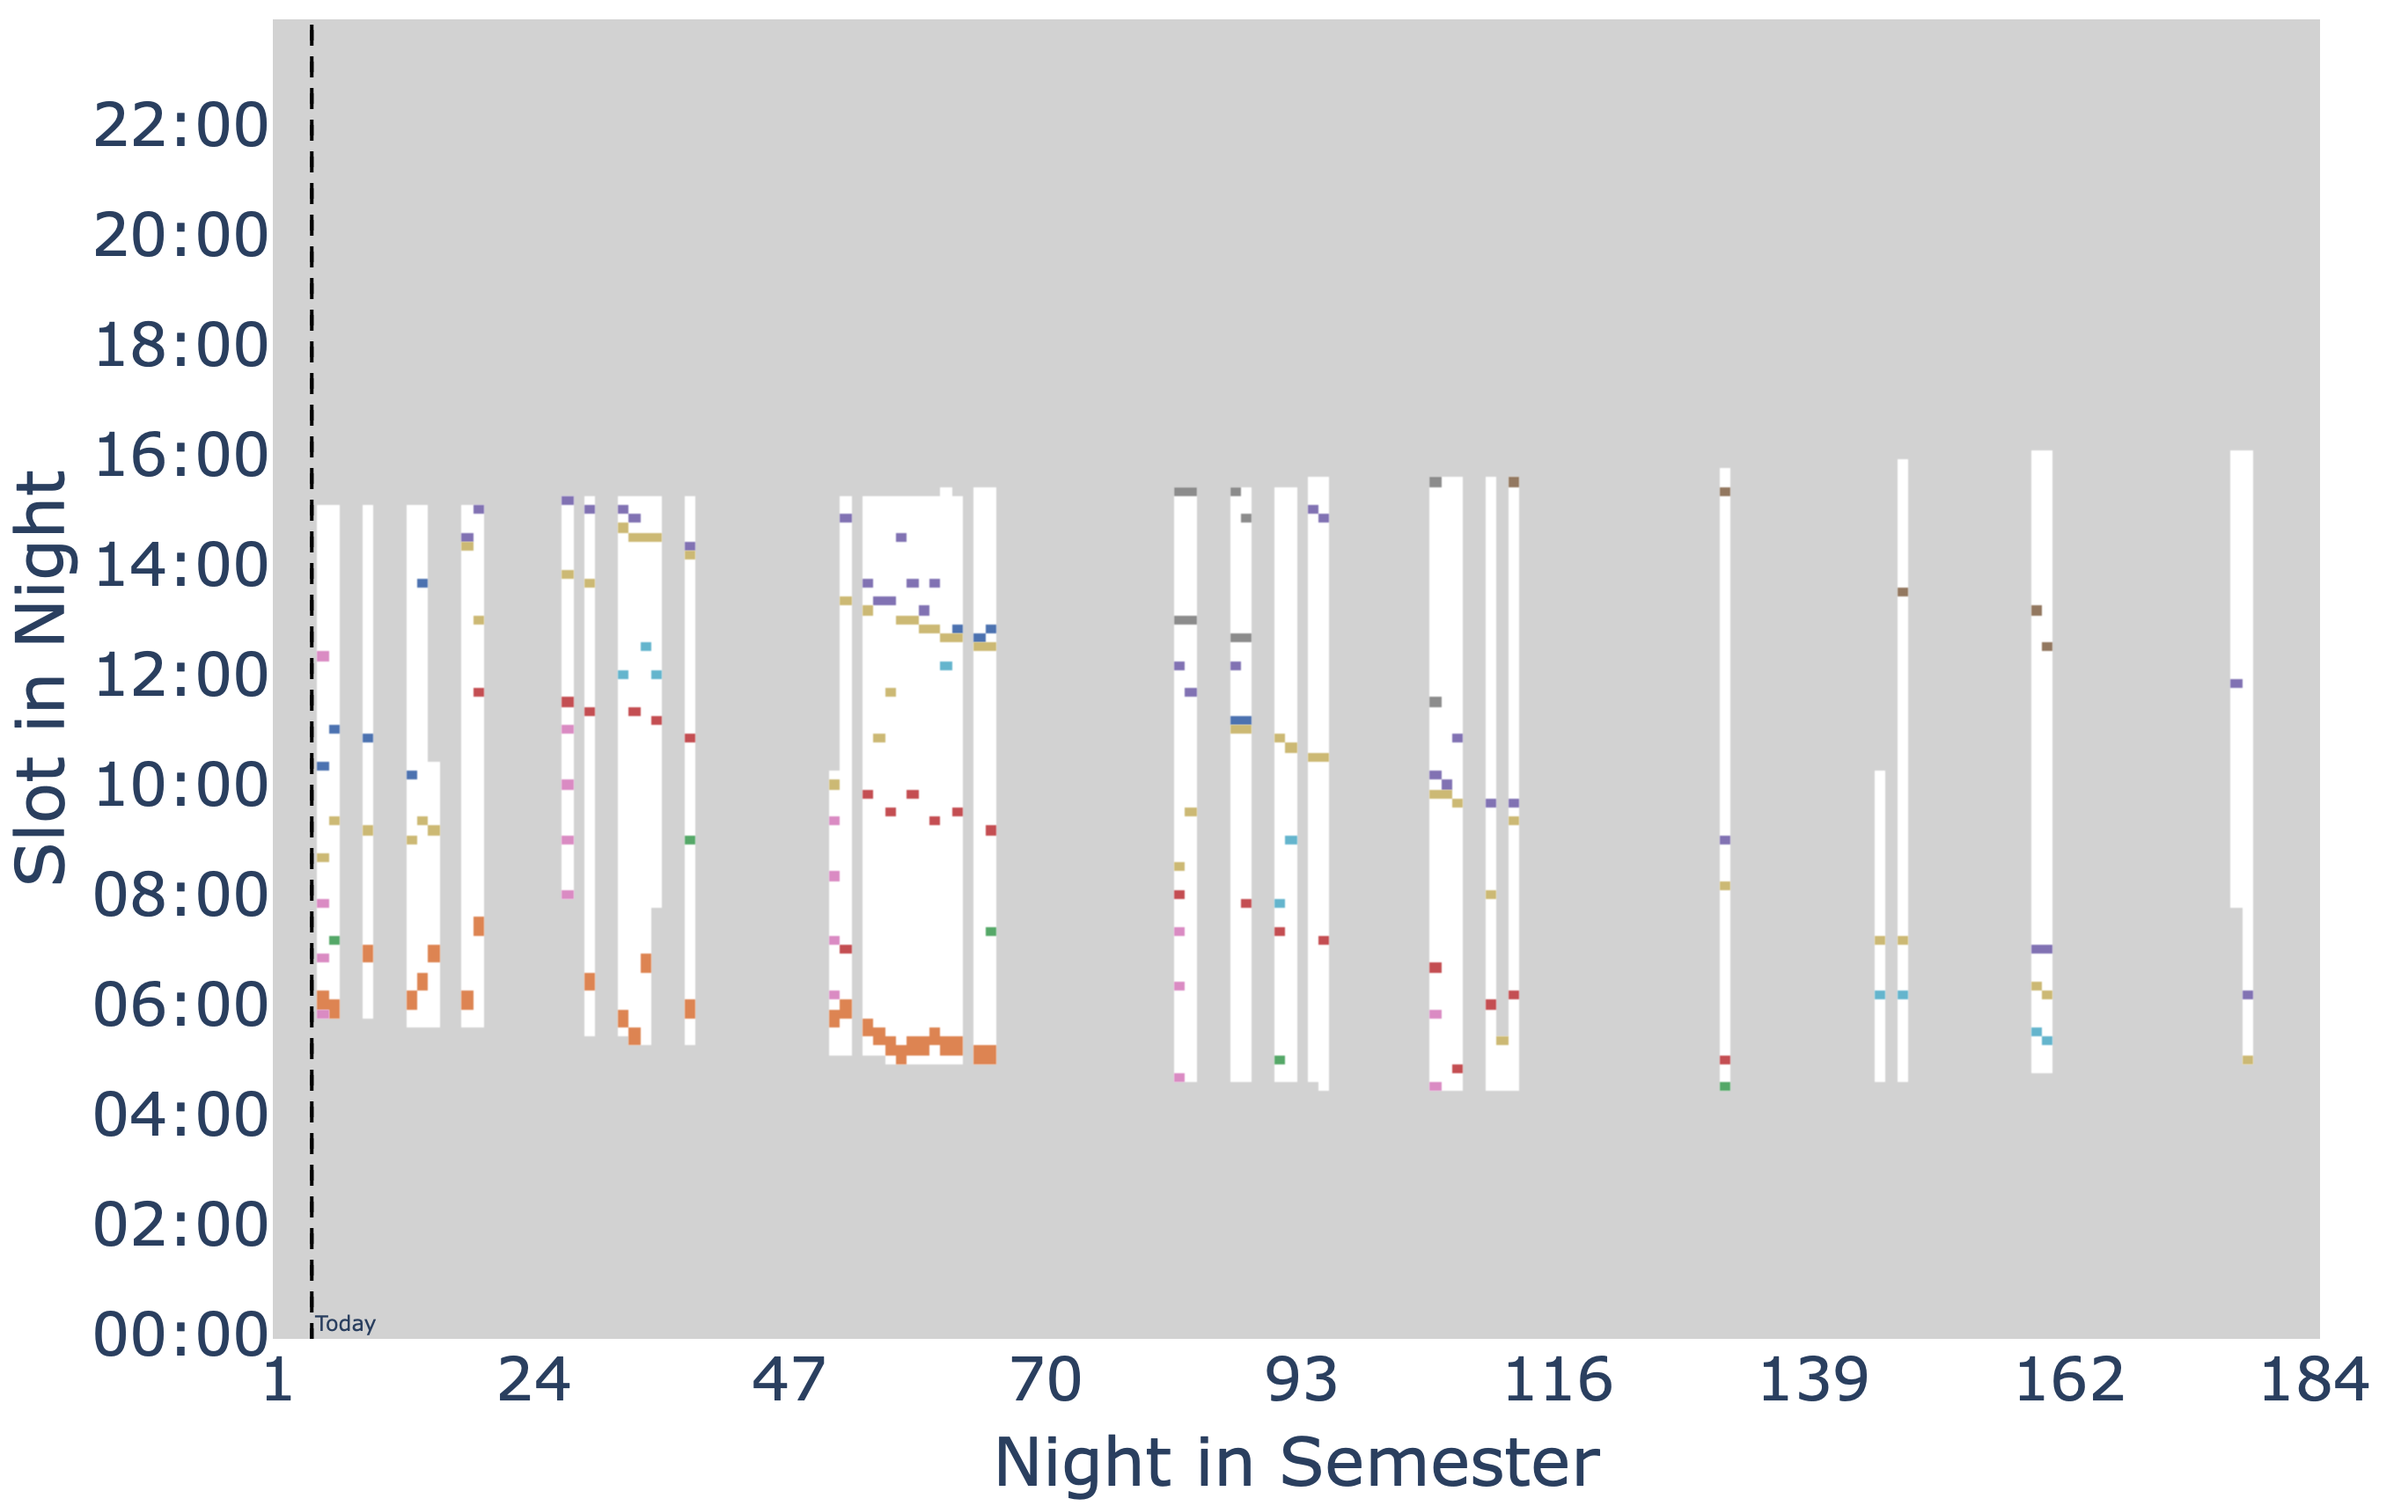
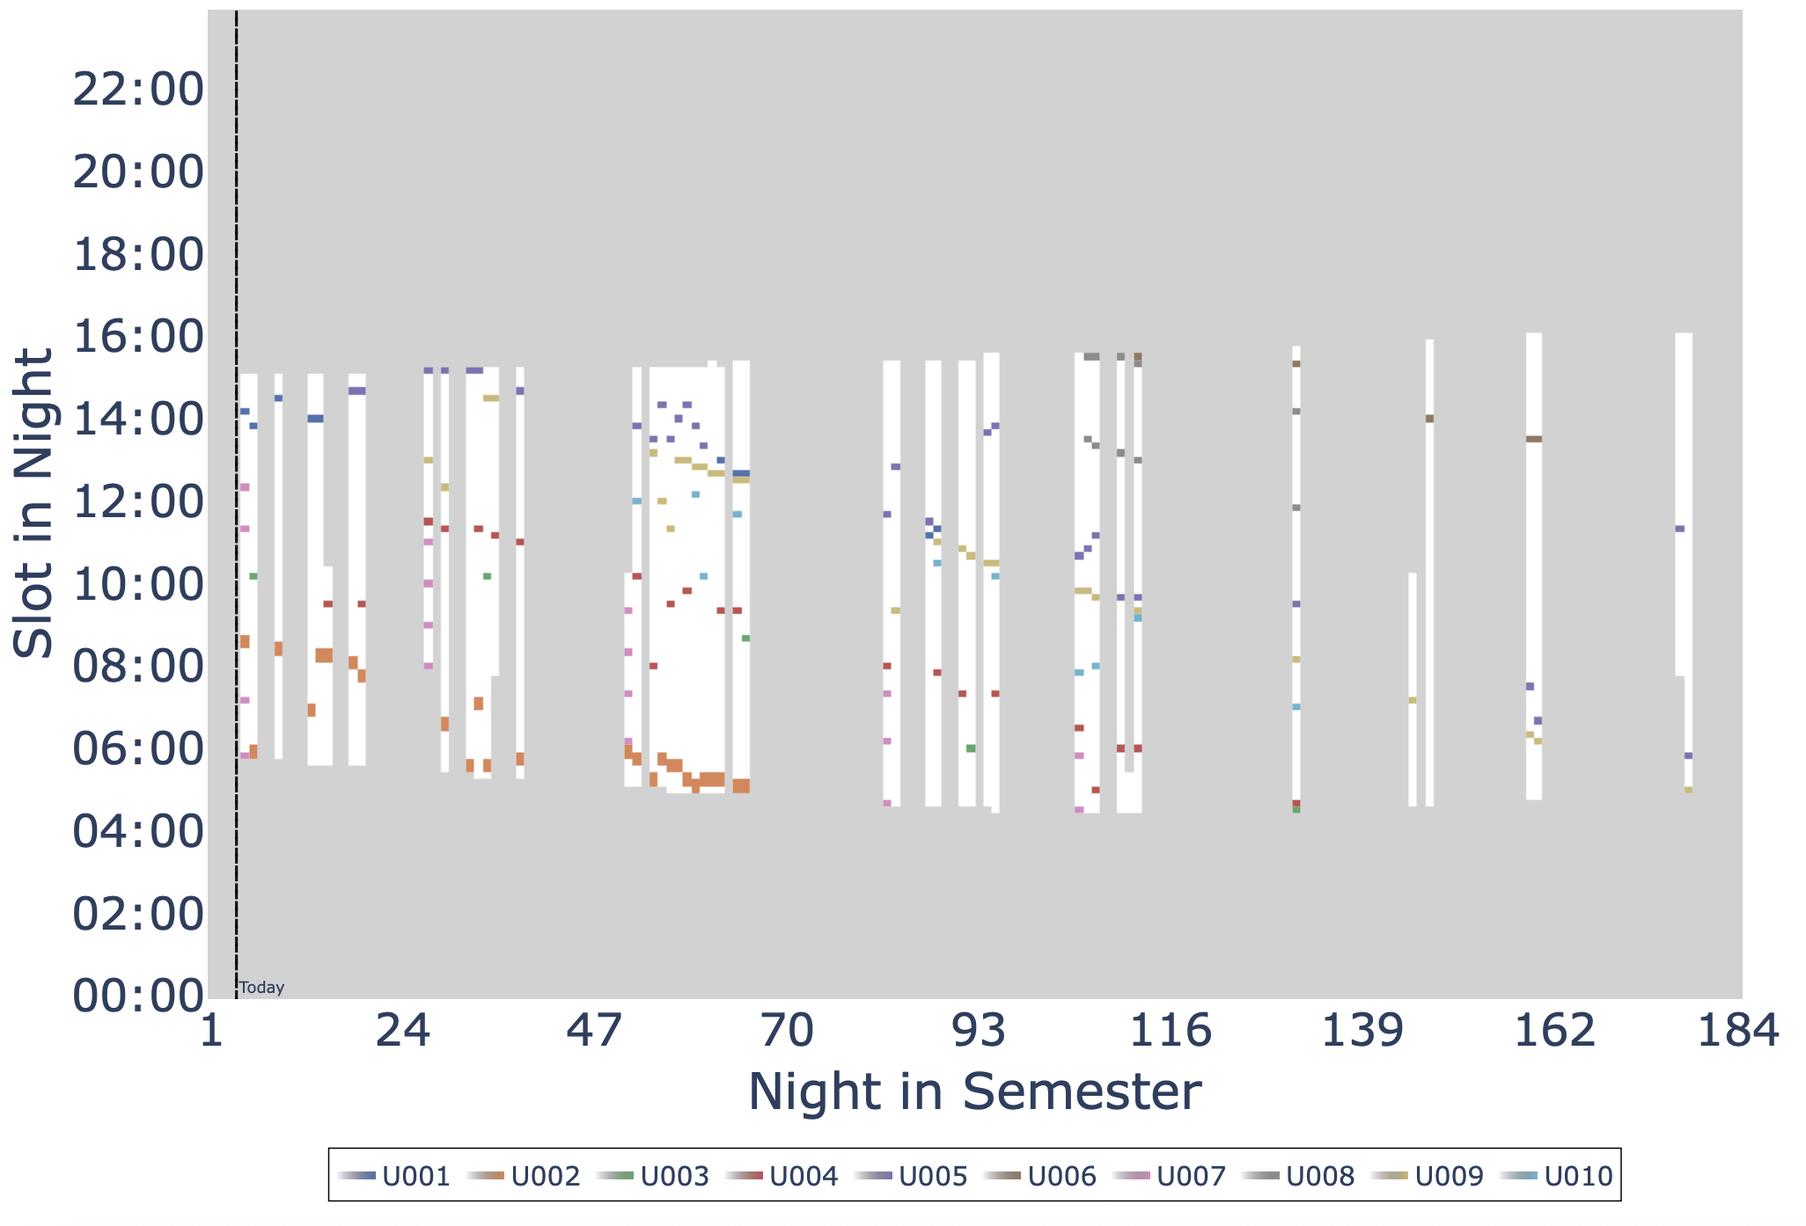
adding plots for docs getting started and modifying language. Changing hello world requests to be more realistic.

diff --git a/docs/getting_started.rst b/docs/getting_started.rst
@@ -384,6 +384,13 @@ Now we can launch the webapp to view the schedule. This will launch on a local s
     
         $ astroq webapp -up examples/hello_world/
 
+Scrolling down a bit, you should see the "Cumulative Observation Function (COF)" plot which describes the completion rate of each program as a function of time:
+
+    .. image:: plots/hello_cof.png
+        :width: 100%
+        :align: center
+        :alt: Webapp screenshot
+
 Scrolling down a bit, you should see the "birdseye" plot of the schedule look something like this:
 
     .. image:: plots/hello_birdseye.png
@@ -391,11 +398,64 @@ Scrolling down a bit, you should see the "birdseye" plot of the schedule look so
         :align: center
         :alt: Webapp screenshot
 
-        
-The Hello World Example is an easy model to solve. Try something a bit more complex by running our benchmark test:
+Notice that two program perform poorly, U001 and U006. This is entirely explainable and stems from the fact that the requests in these programs are infeasible. For example, let's investigate U006's target, WASP-107. First displaying all the slots that are available for observations this semester:
+
+    .. image:: plots/U006_birdseye_1.png
+        :width: 100%
+        :align: center
+        :alt: Webapp screenshot
+
+This shows there is lots of available time to schedule the target. So why isn't it getting scheduled more? Turning on some of the individual constraint maps reveals the problem. First we turn on the is_altaz, which blocks out the times that are not available for scheduling this target due to the natural seasonality of the star and the pointing limits of the telescope:
+
+    .. image:: plots/U006_birdseye_2.png
+        :width: 100%
+        :align: center
+        :alt: Webapp screenshot
+
+Immediately we see that the vast majority of our allocated time is not ammenable to observing this target. But what about those last two days, why isn't the target scheduled then? We can further turn on the is_moon, which blocks out the times that are not available for scheduling this target due to the moon's position in the sky and we see that this is the cause of conflict:
+
+    .. image:: plots/U006_birdseye_3.png
+        :width: 100%
+        :align: center
+        :alt: Webapp screenshot
+
+Now we can feel confident that AstroQ is scheduling this target as often as is feasible. The request itself is infeasible, thus the low completion rate. U001's HIP1532 target is amenable to observations all semester, but it has a custom map that severly restricts when it can be observed, hence a low completion rate. These tools allow us the really dive into any target and understand why it is or is not being scheduled.
+
+Looking at some additional plots, we track the on-sky cadence vs the requested cadence. We don't want to violate the PI's desired minimum cadence so all dots on this plot should be above the dashed line, which, is confirmed:
+
+    .. image:: plots/hello_tau.png
+        :width: 100%
+        :align: center
+        :alt: Webapp screenshot
+
+Lastly, we look at the distribution of the targets across the sky. Against the grayscale heatmap, we can get a sense for how many nights in the semester a given location on the sky is observable, imagining we had the telescope all night every night. Here we can quickly see that WASP-107 is in a dark region of the sky, meaning it is not amenable to many observations in the semester. Couple that with the fact that we don't actually have all night every night to observe, this target is severely limited in its observability and hence has the low completion, which we walked through above. This grayscale map captures the intricate pointing limits of the K1 telescope easily. 
+
+    .. image:: plots/hello_football.png
+        :width: 100%
+        :align: center
+        :alt: Webapp screenshot
+
+Next we can investigate the plan for tonight. After the the slew path in minimized through the TTP solver, we have a suite of plots availabe to us for insight. First we look at the "ladder" plot. The observations are ordered in time from top to bottom. Green bars indicate the spans of time when the target is observable (above pointing limits), and the red bars indicate the times when we are set to observe the target. We can easily see the plan for the night, and see how tight or loose the windows are to observe a particular target.
+
+    .. image:: plots/hello_ladder.png
+        :width: 100%
+        :align: center
+        :alt: Webapp screenshot
+
+Then we have the slew path animation (screenshot below). This is a polar plot of the telescope's slew path with an orange line showing the path of the telescope over the night as the defined optimal path. The red regions are below/above telescope pointing limits and are unique to K1 telescope. The slider at the bottom allows us to select a time in the night and see where we are and where we are going next.
+
+    .. image:: plots/hello_slew.png
+        :width: 100%
+        :align: center
+        :alt: Webapp screenshot
+
+The Hello World Example is an easy model to solve. It only has 10 requests, with a total of 282 observations to schedule across and entire 6 month semester...a human could do this easily. In terms of model size, it is only 4598 rows by 8285 columns with 65656 nonzeros. 
+
+Try something a bit more complex by running our benchmark test. This is a realistic semester model scheduling 200 requests with programs of different observational strategies inspired by real observing programs. This model is 56009 rows by 329369 columns with 3820641 nonzeros, significantly bigger and not human-solvable.
 
     .. code-block:: bash
     
         $ astroq bench -cf examples/bench/config_benchmark.ini -ns 12 
 
 The inputs and expected outputs are well defined in our paper, compare your computer's performance to ours! See `Lubin et al. 2025 <https://ui.adsabs.harvard.edu/abs/2025arXiv250608195L/abstract>`_.       
+
